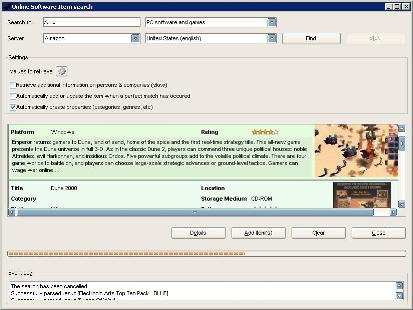
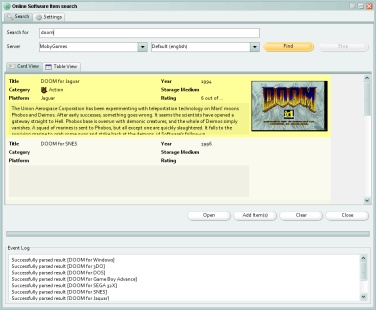
*** empty log message ***

diff --git a/help/onlinesearch/onlinesearch.html b/help/onlinesearch/onlinesearch.html
@@ -10,7 +10,7 @@
     <br><img src="./images/onlinesearch.jpg" alt="" border="0">
 
 	<h2>Starting a search</h2>
-	The online search is available from the item form (to update an existing item), from the menubar and the toolbar.
+	The online search is available from the item form (to update an existing item), from the menu bar and the tool bar.
 	Before you can find the item you want, make sure you have selected the correct server. Each server comes with its own options.
 	For example; when you select an Amazon server you can select the location of the server you want to use. The server located in Germany will deliver you with descriptions in German, etc.
 
@@ -22,23 +22,27 @@
 
 	To stop a search press "stop". The search is then stopped and you can start a new search. To clear previous found results, press "clear".
 
-    <h2>Options<h2>
-    There are several options for you to consider. <br>
+    <h2>Options</h2>
+    There are several options for you to consider.<br>
 
-    <h3>Retrieved information</h3>
+    <h3>Values to retrieve</h3>
     When searching for new items you can specify for which fields values should be retrieved. To do this click the settings button and select
     all the fields for which you want Data Crow to find values for. When updating an item an almost identical option exists. This time however
-    you select the fields for which the values of the existing item should should be overwritten (if at all).
+    you select the fields for which the values of the existing item should be overwritten (if at all).
 
-    <h3>Automatically add or update the item when a perfect match has occured</h3>
+    <h3>Retrieve full details on initial search (slow)</h3>
+    Instead of retrieving only the minimal amount of information you can choose to retrieve the full set of information at once. 
+    This will slow down the search significantly!    
+
+    <h3>Automatically add or update the item when a perfect match has occurred</h3>
     Selecting this option Data Crow will stop the search as soon as it considers a match to be perfect.
 
     <h3>Retrieve additional information on persons & companies</h3>
-    Data Crow can retrieve (in most cases) additional information on persons like actors and companies like software development organisations.
-    By default this option is disabled as this option slows down the online search. When disabled persons and companies are still created but without any additonal information. Such a company or person will only have a name and nothing else. When this option is enabled Data Crow will try and retrieve images and a description. Note that at any point in time you can decide to update all persons and companies using the "Mass Update" feature (<a href="../tools/mass_update.html">more about this</a>) of Data Crow or one by one by using the online search functionality of the specific module.
+    Data Crow can retrieve (in most cases) additional information on persons like actors and companies like software development organizations.
+    By default this option is disabled as this option slows down the online search. When disabled persons and companies are still created but without any additional information. Such a company or person will only have a name and nothing else. When this option is enabled Data Crow will try and retrieve images and a description. Note that at any point in time you can decide to update all persons and companies using the "Mass Update" feature (<a href="../tools/mass_update.html">more about this</a>) of Data Crow or one by one by using the online search functionality of the specific module.
 
     <h3>Automatically create properties</h3>
-    When enabled Data Crow will automatically create properties like genres and categories not yet present.
+    When enabled Data Crow will automatically create properties like genres and categories which are not yet present in your database.
 
 	<h2>Adding the results to Data Crow</h2>
 	When you have found the result you were looking for select the item(s) and press "Add item(s)". The items are then added to the new item tab. The items are not yet saved to the database. The new item tab is a holding place for items eligible to be added to the database. You can, if you want, modify them here before saving them to database (by pressing "save").
